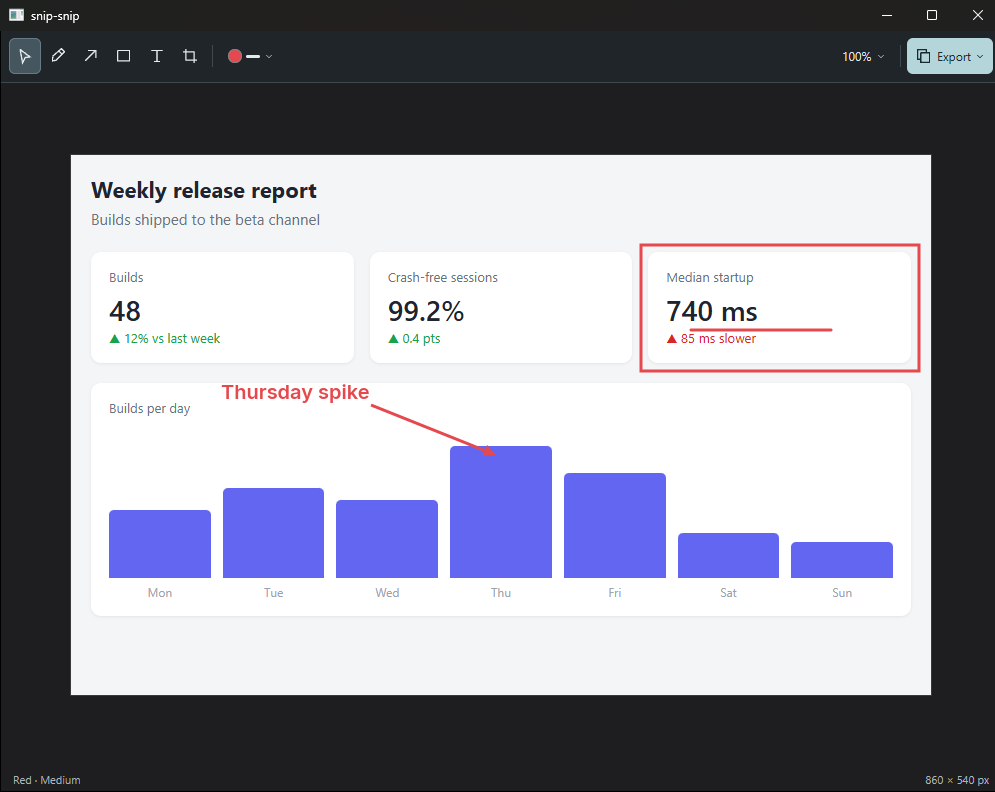
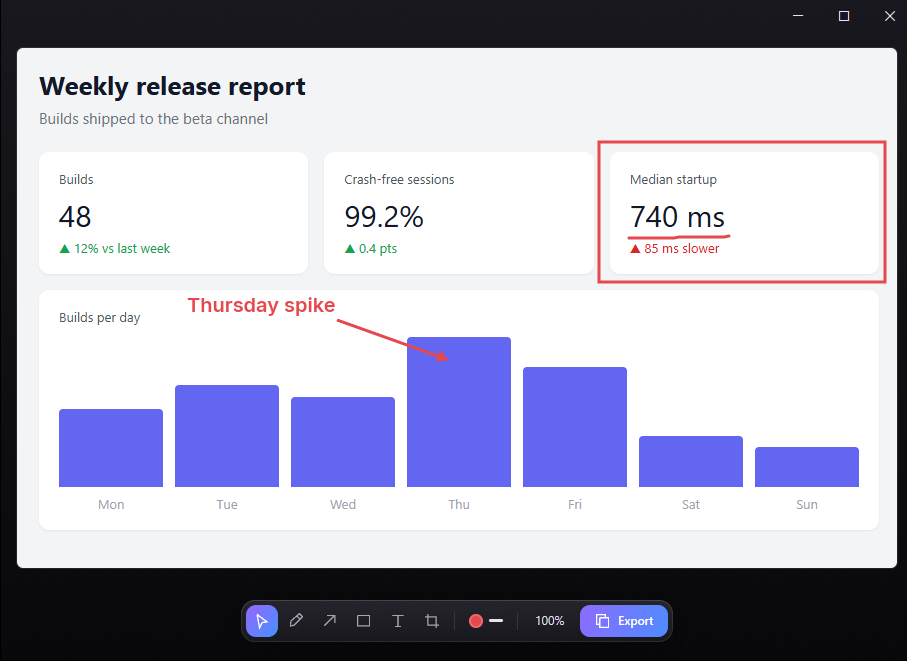
Update the README for the redesigned editor
The README screenshot still showed the old top toolbar, and the text
pointed at an Export menu that is now a popover in the floating dock.

diff --git a/README.md b/README.md
@@ -18,7 +18,7 @@ cargo run --release -p snip-gpui
 
 On macOS without full Xcode, add `--features gpui_platform/runtime_shaders`. macOS asks for Screen Recording permission on the first snip.
 
-The app lives in the tray / menu bar. Press `Alt+Shift+S` (changeable in **Settings**) or choose **New snip**, drag over a region, and it opens in the editor.
+The app lives in the tray / menu bar. Press `Alt+Shift+S` (changeable in **Settings**) or choose **New snip**, drag over a region, and it opens in the editor. Tools sit in a dock at the bottom of the editor; its **Ink**, **Zoom**, and **Export** popovers hold colors and stroke widths, Fit/100%, and Copy, Copy & Close, Copy to cloud, and Save.
 
 ## Shortcuts
 
@@ -41,7 +41,7 @@ Optionally, copy a snip on one machine and paste it on another. In **Settings**,
 
 While signed in:
 
-- **Copy to cloud** in the editor's Export menu copies the snip and uploads it.
+- **Copy to cloud** in the editor's Export popover copies the snip and uploads it.
 - **Copy latest cloud snip** in the tray / menu bar puts the newest cloud snip on the clipboard.
 - **Cloud library** in the tray / menu bar shows recent cloud snips. Click one to copy it, or delete it.
 
